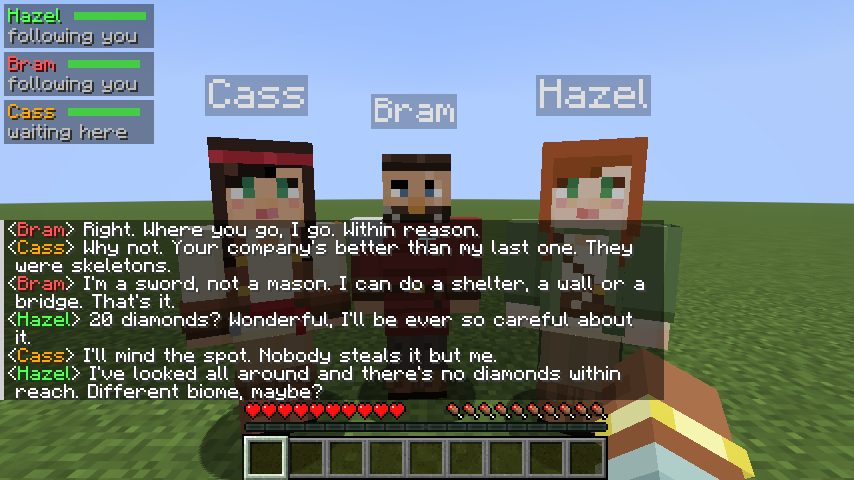
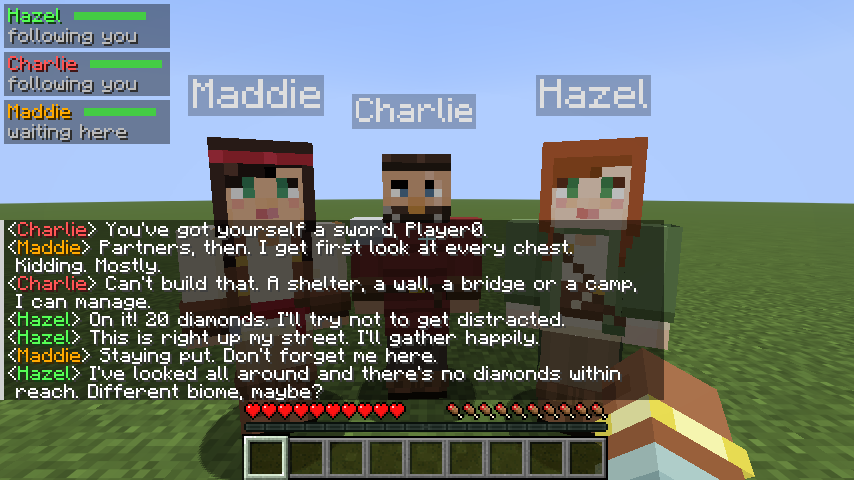
Refresh cast and chat screenshots, role in the AI character sheet

diff --git a/src/main/java/io/github/tekless/hearthbound/ai/AiService.java b/src/main/java/io/github/tekless/hearthbound/ai/AiService.java
@@ -269,6 +269,6 @@ public final class AiService {
 		});
 		return new PromptBuilder.Context(companion.companionName(), companion.archetype(), playerName, world, recent,
 				companion.memory().events(), told, companion.memory().affinity(), companion.order().describe(), companion.isRecruited(),
-				companion.castMember().map(member -> companion.companionName() + " (" + member.pronouns() + "), " + member.background()).orElse(null));
+				companion.castMember().map(member -> companion.companionName() + " (" + member.pronouns() + "), " + member.background() + ". Your role in the party is " + member.role().label().toLowerCase(java.util.Locale.ROOT) + ", so that is what you are best at; you can still do anything you are asked").orElse(null));
 	}
 }

diff --git a/README.md b/README.md
@@ -212,7 +212,7 @@ short list, and the game double-checks it the same way. If the game says no, the
 thrown out and the companion tells you the real reason instead.
 
 <p align="center">
-  <img src="docs/images/party-conversation.png" width="80%" alt="A party chatting, and Charlie explaining he can only build a shelter, a wall or a bridge">
+  <img src="docs/images/party-conversation.png" width="80%" alt="A party chatting, and Charlie explaining he can only build a shelter, a wall, a bridge or a camp">
 </p>
 
 <br>
